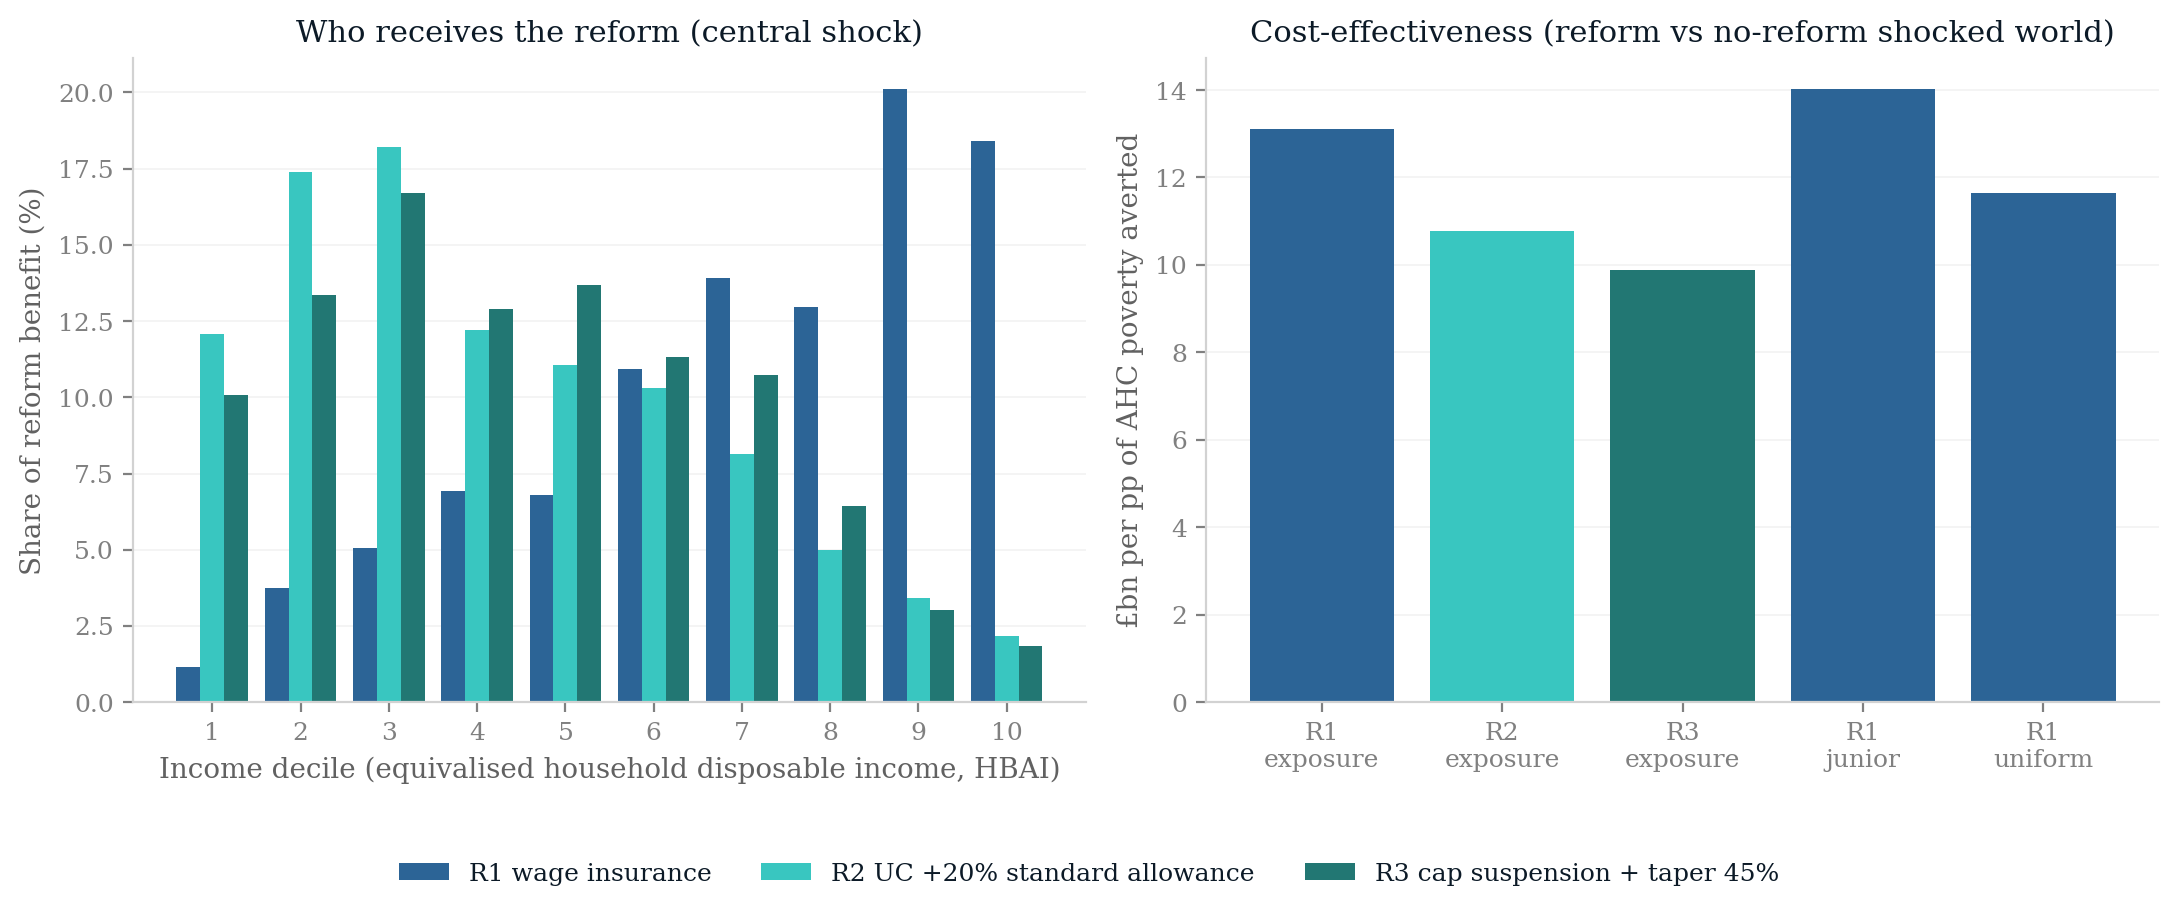
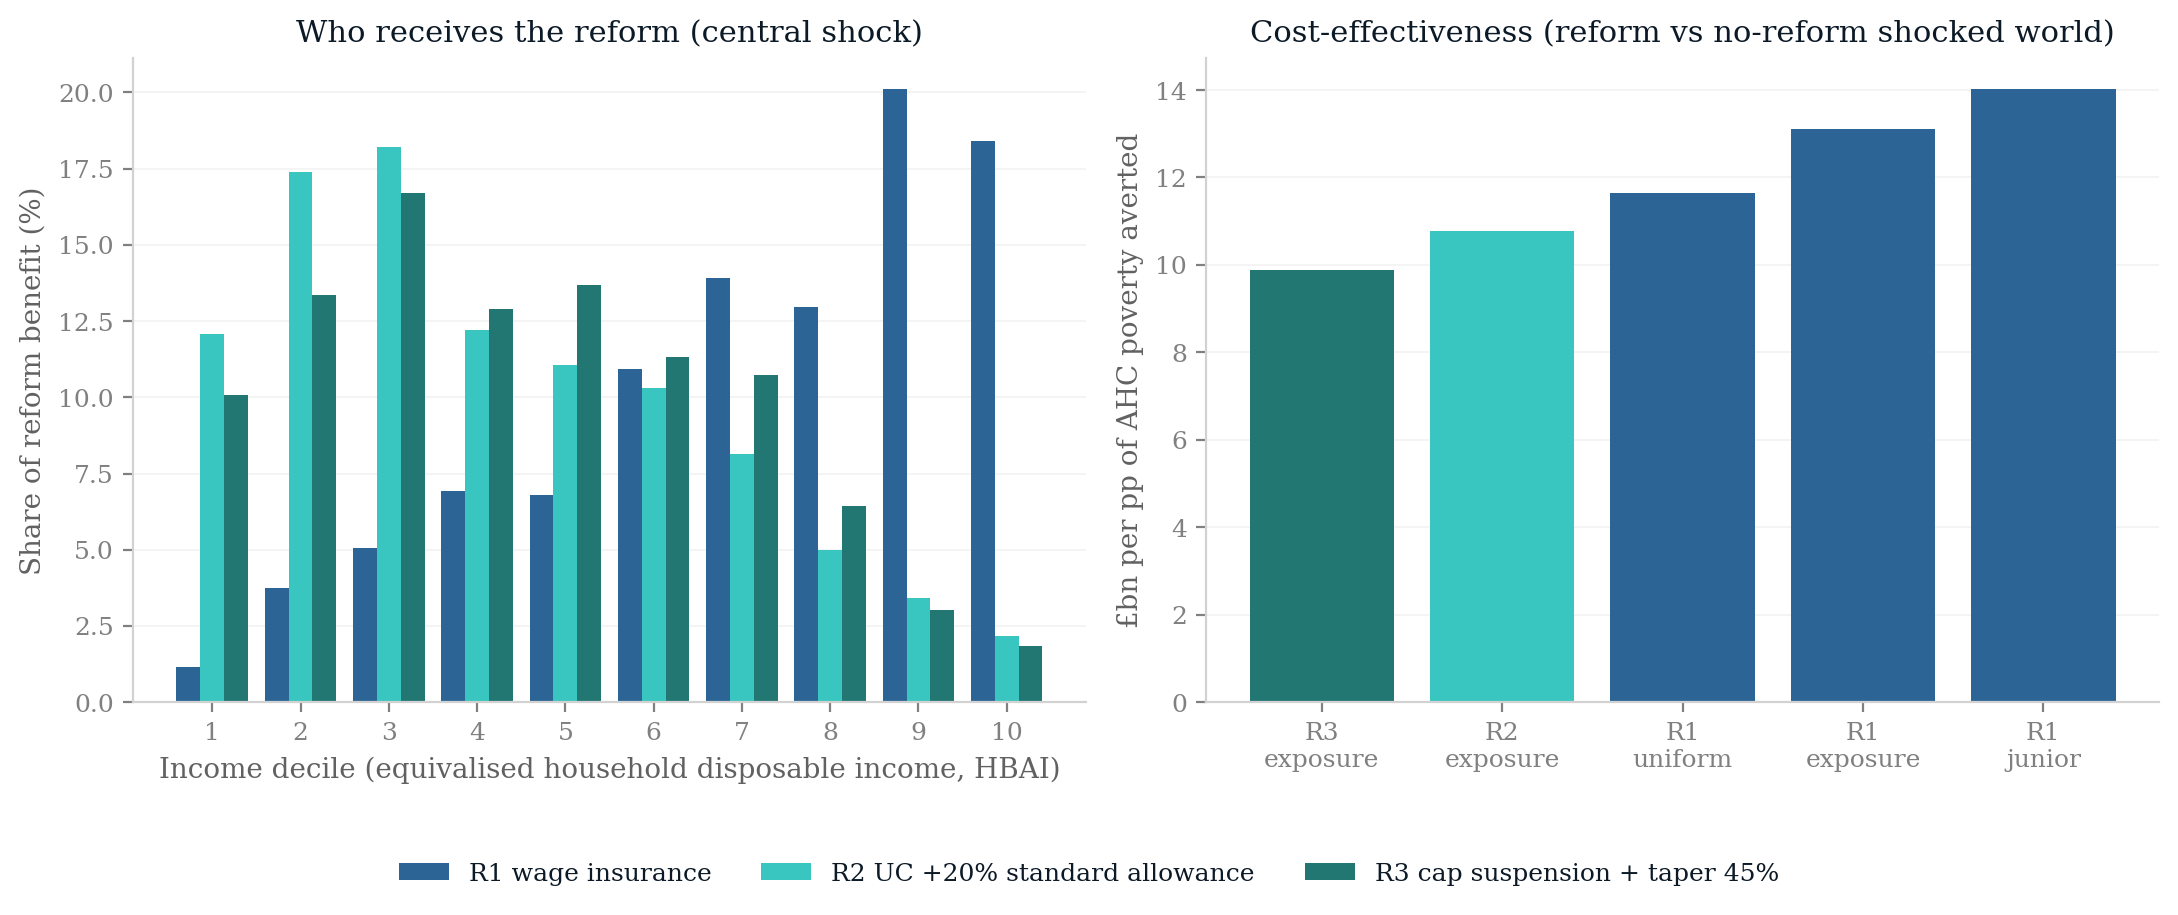
Fig 9 real choropleth + figure/layout review fixes
- Fig 9: replaced the hex cartograms with real UK constituency choropleths
  (new analysis/geo_choropleth.py, drawn from the cached constituency CSV +
  2024 boundary polygons; PolicyEngine palette, 95th-pct-clipped diverging
  scale). Paper references and caption updated.
- Fig 10: right-panel bars reordered as a cost-effectiveness ranking
- Fig 22: Decile-10 bars changed from near-black to blue
- Table 3: wrapped to fit the text width
- Section 6: trimmed two redundant passages
- Title: added vertical gap between title and author

diff --git a/analysis/geo_choropleth.py b/analysis/geo_choropleth.py
@@ -1,0 +1,85 @@
+"""Real geographic choropleths of the constituency shock (replaces the hex maps).
+
+Reads the cached per-constituency results (results/geo/constituency_impacts.csv)
+and 2024 Westminster boundary polygons, joins on GSS code, and draws two
+choropleths in the PolicyEngine house style: the diverging income-change map
+(grey losses, blue gains, scale clipped at the 95th percentile so the English
+gradient is not crushed by extreme seats) and the sequential displacement map.
+
+No microsimulation is run here -- this is presentation only, off the cached CSV.
+"""
+
+import sys
+from pathlib import Path
+
+import numpy as np
+import pandas as pd
+import geopandas as gpd
+import matplotlib.pyplot as plt
+from matplotlib.cm import ScalarMappable
+from matplotlib.colors import Normalize, TwoSlopeNorm
+
+ROOT = Path(__file__).resolve().parents[1]
+sys.path.insert(0, str(ROOT / "analysis"))
+import figstyle  # noqa: E402
+
+GEO = ROOT / "results" / "geo"
+IMPACTS = GEO / "constituency_impacts.csv"
+# 2024 Westminster constituency boundaries (GSS-coded), sourced locally.
+BOUNDARIES = Path(
+    "/Users/janansadeqian/energy-price-shock/dashboard/public/data/uk_constituencies_2024.geojson"
+)
+
+
+def load():
+    df = pd.read_csv(IMPACTS)
+    gdf = gpd.read_file(BOUNDARIES)[["GSScode", "geometry"]]
+    merged = gdf.merge(df, left_on="GSScode", right_on="code", how="inner")
+    missing = len(df) - len(merged)
+    if missing:
+        print(f"warning: {missing} constituencies did not join to a boundary")
+    # The GeoJSON is mislabelled EPSG:4326 but its coordinates are already
+    # British National Grid eastings/northings; assign the true CRS (no reproject).
+    return merged.set_crs(27700, allow_override=True)
+
+
+def choropleth(gdf, col, title, path, diverging):
+    figstyle.apply_style()
+    vals = gdf[col].to_numpy()
+    if diverging:
+        vmax = float(np.nanpercentile(np.abs(vals), 95)) or float(np.abs(vals).max())
+        norm = TwoSlopeNorm(vcenter=0.0, vmin=-vmax, vmax=vmax)
+        cmap = figstyle.DIVERGING
+        extend = "both"
+    else:
+        norm = Normalize(vmin=float(np.nanmin(vals)), vmax=float(np.nanmax(vals)))
+        cmap = figstyle.SEQUENTIAL
+        extend = "neither"
+
+    fig, ax = plt.subplots(figsize=(8.5, 10.5))
+    gdf.plot(column=col, cmap=cmap, norm=norm, ax=ax,
+             edgecolor="white", linewidth=0.15)
+    ax.set_aspect("equal")
+    ax.axis("off")
+    ax.set_title(title + "\nCentral scenario (7% displacement, +2.6% wages), 2025, seed 0")
+
+    sm = ScalarMappable(norm=norm, cmap=cmap)
+    cbar = fig.colorbar(sm, ax=ax, orientation="horizontal",
+                        fraction=0.035, pad=0.01, extend=extend)
+    cbar.outline.set_visible(False)
+    figstyle.save(fig, path)
+    print("wrote", path)
+
+
+def main():
+    gdf = load()
+    choropleth(gdf, "income_change_pct",
+               "Mean HBAI household income change (%)",
+               GEO / "map_income_change.png", diverging=True)
+    choropleth(gdf, "displaced_per_1000_workers",
+               "Displaced workers per 1,000 workers",
+               GEO / "map_displacement.png", diverging=False)
+
+
+if __name__ == "__main__":
+    main()

diff --git a/paper/sections/results.tex b/paper/sections/results.tex
@@ -159,9 +159,9 @@ With that understood, the geography is far from uniform. Nationally, aggregate h
 
 \begin{figure}[htbp]
 \centering
-\includegraphics[width=.49\textwidth]{../results/geo/hexmap_income_change.png}
-\includegraphics[width=.49\textwidth]{../results/geo/hexmap_displacement.png}
-\caption{Constituency hex maps of the central scenario: change in aggregate household income (left) and displaced workers per 1,000 (right), enhanced FRS 2023--24 basis with imputed occupations, single draw (seed 0). Not directly comparable to the main-paper poverty numbers. The diverging scale is clipped at the 95th percentile of the absolute change (caps show clipped seats), so the English gradient is not crushed by a handful of extreme Northern Irish and inner-London constituencies. Because occupation is imputed within demographic cells rather than observed locally, most cross-constituency variation is within-region compositional scatter rather than a smooth spatial trend (see Appendix~\ref{app:geo-imputation}).}
+\includegraphics[width=.49\textwidth]{../results/geo/map_income_change.png}
+\includegraphics[width=.49\textwidth]{../results/geo/map_displacement.png}
+\caption{Constituency choropleth maps of the central scenario: change in aggregate household income (left) and displaced workers per 1,000 (right), enhanced FRS 2023--24 basis with imputed occupations, single draw (seed 0). Not directly comparable to the main-paper poverty numbers. The diverging scale is clipped at the 95th percentile of the absolute change (caps show clipped seats), so the English gradient is not crushed by a handful of extreme Northern Irish and inner-London constituencies. Because occupation is imputed within demographic cells rather than observed locally, most cross-constituency variation is within-region compositional scatter rather than a smooth spatial trend (see Appendix~\ref{app:geo-imputation}).}
 \label{fig:hexmaps}
 \end{figure}
 

diff --git a/analysis/policy_counterfactuals.py b/analysis/policy_counterfactuals.py
@@ -344,6 +344,11 @@ def main():
         names.append(f"{tag}\n{r['family']}")
         bars.append(v)
         cols.append(colors[r["reform"]])
+    # order bars by cost-effectiveness (cheapest £/pp first) so it reads as a ranking
+    order = sorted(range(len(bars)), key=lambda i: bars[i])
+    bars = [bars[i] for i in order]
+    names = [names[i] for i in order]
+    cols = [cols[i] for i in order]
     ax.bar(range(len(bars)), bars, color=cols)
     ax.set_xticks(range(len(bars)))
     ax.set_xticklabels(names)

diff --git a/paper/sections/discussion.tex b/paper/sections/discussion.tex
@@ -9,7 +9,7 @@ Two structural features, established in Sections~\ref{sec:results-aggregates}--\
 
 The central policy message follows from the incidence axis rather than from any single scenario. Inequality rises whichever family one assumes; what the incidence determines is whether the UK faces primarily a fiscal-resilience problem or a poverty-protection problem.
 
-If the shock is top-loaded, as in the exposure-proportional family, the problem is chiefly fiscal. Displaced workers are drawn from occupations that pay well and are taxed heavily, so each displacement removes a large slug of income tax and National Insurance while adding comparatively little to means-tested expenditure. The Exchequer cost of the central shock is \pounds 18.2~billion under exposure-proportional incidence against \pounds 14.9~billion under uniform incidence (20-draw means)---the same aggregate shock, over a fifth more expensive purely because of who bears it. Under top-loaded incidence the first-order policy question is revenue resilience: the UK tax base leans heavily on the taxation of labour income, and the workers most exposed are precisely those who contribute most to it. If AI additionally shifts the functional distribution of income from labour towards capital, the base that finances the cushioning I document would itself erode---a possibility that has motivated recent work on the taxation of capital in an AI-intensive economy \citep{bastani2024}. The tax-composition exercise of Section~\ref{sec:policy} prices that possibility for the Treasury: whether base erosion is a first-order fiscal problem turns entirely on how much of the displaced wage bill reappears as taxable corporate profit. Its policy lesson is that even the most fiscally benign outcome is not distributionally benign---the same recomposition of income from labour to capital that would refill the revenue hole raises the Gini while reaching no household near the poverty line, which is precisely the configuration in which the transfer-side instruments are most needed.
+If the shock is top-loaded, as in the exposure-proportional family, the problem is chiefly fiscal. Displaced workers are drawn from occupations that pay well and are taxed heavily, so each displacement removes a large slug of income tax and National Insurance while adding comparatively little to means-tested expenditure. The Exchequer cost of the central shock is \pounds 18.2~billion under exposure-proportional incidence against \pounds 14.9~billion under uniform incidence (20-draw means)---the same aggregate shock, over a fifth more expensive purely because of who bears it. Under top-loaded incidence the first-order policy question is revenue resilience: the UK tax base leans heavily on the taxation of labour income, and the workers most exposed are precisely those who contribute most to it. If AI additionally shifts the functional distribution of income from labour towards capital, the base that finances the cushioning I document would itself erode---a possibility that has motivated recent work on the taxation of capital in an AI-intensive economy \citep{bastani2024}. The tax-composition exercise of Section~\ref{sec:policy} prices that possibility for the Treasury: whether base erosion is a first-order fiscal problem turns entirely on how much of the displaced wage bill reappears as taxable corporate profit.
 
 If instead the shock lands flatter or on junior workers, the fiscal exposure moderates but the poverty exposure does not. Uniform incidence is the cheapest family I run, yet its poverty effect (+1.84 points before housing costs) is statistically indistinguishable from the exposure family's (+1.75). Junior-concentrated incidence is indistinguishable from the exposure family on cost and poverty alike. In these worlds the binding constraint is the adequacy of out-of-work support, and the relevant instruments are benefit levels, the contributory window, and---for the junior case---the entry prospects of young workers. Evidence that generative AI operates as a seniority-biased technology, compressing demand for junior and entry-level roles in exposed occupations \citep{hosseini2026, brynjolfsson2025}, with early UK corroboration in \citet{kleinteeselink2025}, argues for close monitoring of youth labour-market entry. My junior-concentrated family can only re-weight who is displaced within a single year; the dynamic costs of a scarred entry cohort---foregone experience, delayed progression, persistent earnings losses---lie outside a static framework, so even that family understates the long-run burden on new entrants.
 
@@ -21,7 +21,7 @@ The shock also has a geography, and it does not track existing regional-policy m
 
 Two implications hold across all families. First, because the modelled losses fall on identifiable occupational groups rather than diffusely across the workforce, retraining and lifelong-learning provision targeted at exposed occupations is the most direct lever available; the tax-benefit system can replace income but cannot restore occupational attachment. Second, since measured inequality rises under every incidence I examine, distributional monitoring should not wait for evidence on which incidence is materialising: the direction of the inequality effect is not in doubt within this framework, only its composition.
 
-Taken together, the results suggest that the United Kingdom would enter a period of AI-driven labour-market disruption with a tax-benefit system that redistributes the losses effectively but does not, and cannot, prevent them. The system converts each market-income shock into a smaller disposable-income shock at a substantial, incidence-dependent fiscal cost, while the polarising character of displacement pushes measured inequality upwards regardless of who bears it. Policy attention is best directed at the margins the system does not reach: the occupational reallocation of exposed workers, the entry prospects of the young, and the robustness of a labour-taxation-heavy revenue base.
+Taken together, the tax-benefit system converts each market-income shock into a smaller disposable-income shock at a substantial, incidence-dependent fiscal cost, while the polarising character of displacement pushes measured inequality upwards regardless of who bears it. Policy attention is best directed at the margins the system does not reach: the occupational reallocation of exposed workers, the entry prospects of the young, and the robustness of a labour-taxation-heavy revenue base.
 
 \subsection{Limitations and further work}
 \label{sec:limitations}

diff --git a/paper/sections/policy.tex b/paper/sections/policy.tex
@@ -13,6 +13,8 @@ The first reform (R1) is a wage-insurance scheme in the spirit of trade-adjustme
 \caption{Policy reforms on top of the central shock, 2026 (exposure-proportional incidence, seed 0)}
 \label{tab:policy}
 \small
+\setlength{\tabcolsep}{4pt}
+\resizebox{\textwidth}{!}{%
 \begin{tabular}{lcccccc}
 \toprule
  & Annual cost & \multicolumn{2}{c}{Poverty change (pp)} & Gini change & \multicolumn{2}{c}{Cost per pp averted (\pounds bn)} \\
@@ -22,7 +24,7 @@ R1 Wage insurance & 21.2 & $-1.53$ & $-1.65$ & $-0.97$ & 13.8 & 12.8 \\
 R2 UC allowance $+20\%$ & 5.8 & $-0.64$ & $-0.56$ & $-0.31$ & 9.1 & 10.4 \\
 R3 Cap suspension $+$ taper cut & 4.7 & $-0.46$ & $-0.45$ & $-0.23$ & 10.2 & 10.3 \\
 \bottomrule
-\end{tabular}
+\end{tabular}}
 
 \medskip
 \parbox{0.92\textwidth}{\footnotesize\emph{Note:} All effects are shocked-plus-reform minus shocked, fixed seed-0 draw, reforms in force for 2026 only. R1: 50 per cent of lost earnings, \pounds 15{,}000 cap, paid to 1.61 million displaced workers (mean transfer \pounds 13{,}173), modelled as non-taxable and means-test-disregarded so gross cost equals net cost. R2 and R3 are PolicyEngine parameter reforms; costs are net of clawback. R3 combines benefit-cap suspension with a UC taper cut from 55 to 45 per cent. Poverty lines are held at their shocked-world values.}

diff --git a/analysis/index_sensitivity.py b/analysis/index_sensitivity.py
@@ -141,7 +141,7 @@ def figure(results):
     ax2.bar(x - 0.2, [results[k]["transition_share_decile1_pct"] for k in measures],
             width=0.4, color=fs.AQUA, label="Decile 1")
     ax2.bar(x + 0.2, [results[k]["transition_share_decile10_pct"] for k in measures],
-            width=0.4, color=fs.VIOLET, label="Decile 10")
+            width=0.4, color=fs.BLUE, label="Decile 10")
     ax2.set_xticks(x, measures, rotation=20)
     ax2.set_ylabel("Displacement transition share (%)")
     ax2.grid(axis="x", visible=False)

diff --git a/paper/main.tex b/paper/main.tex
@@ -15,7 +15,7 @@
 \usepackage{natbib}
 \bibliographystyle{apalike}
 
-\title{\bfseries Who bears the AI shock?\\[0.15cm] The distributional and fiscal incidence in the UK\thanks{\textbf{Acknowledgements:} I thank Max Ghenis and Seyed Mahdi Hosseini for their great suggestions and helpful discussions.}}
+\title{\bfseries Who bears the AI shock?\\[0.15cm] The distributional and fiscal incidence in the UK\thanks{\textbf{Acknowledgements:} I thank Max Ghenis and Seyed Mahdi Hosseini for their great suggestions and helpful discussions.}\\[0.7cm]}
 \author{Vahid Ahmadi\thanks{Research Associate at PolicyEngine. Email: \href{mailto:[email redacted]}{[email redacted]}.}}
 \date{\small \ifcase\month\or January\or February\or March\or April\or May\or June\or July\or August\or September\or October\or November\or December\fi\ \the\year}
 